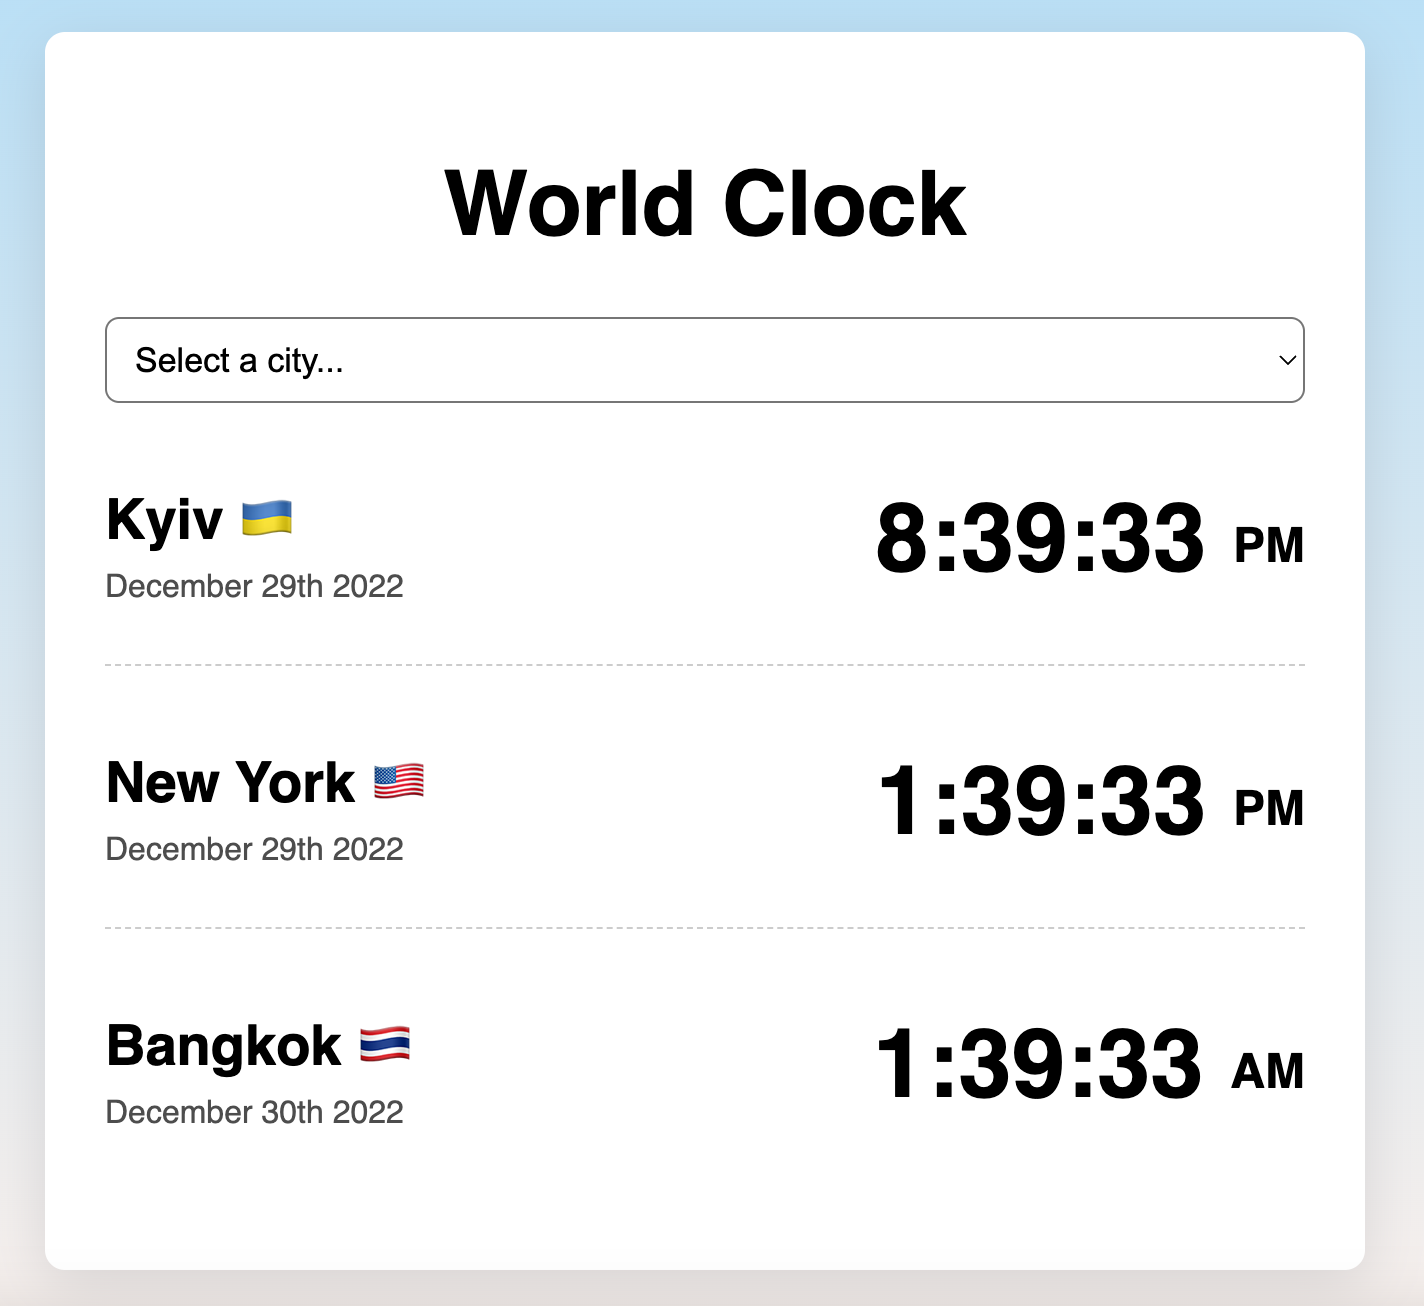
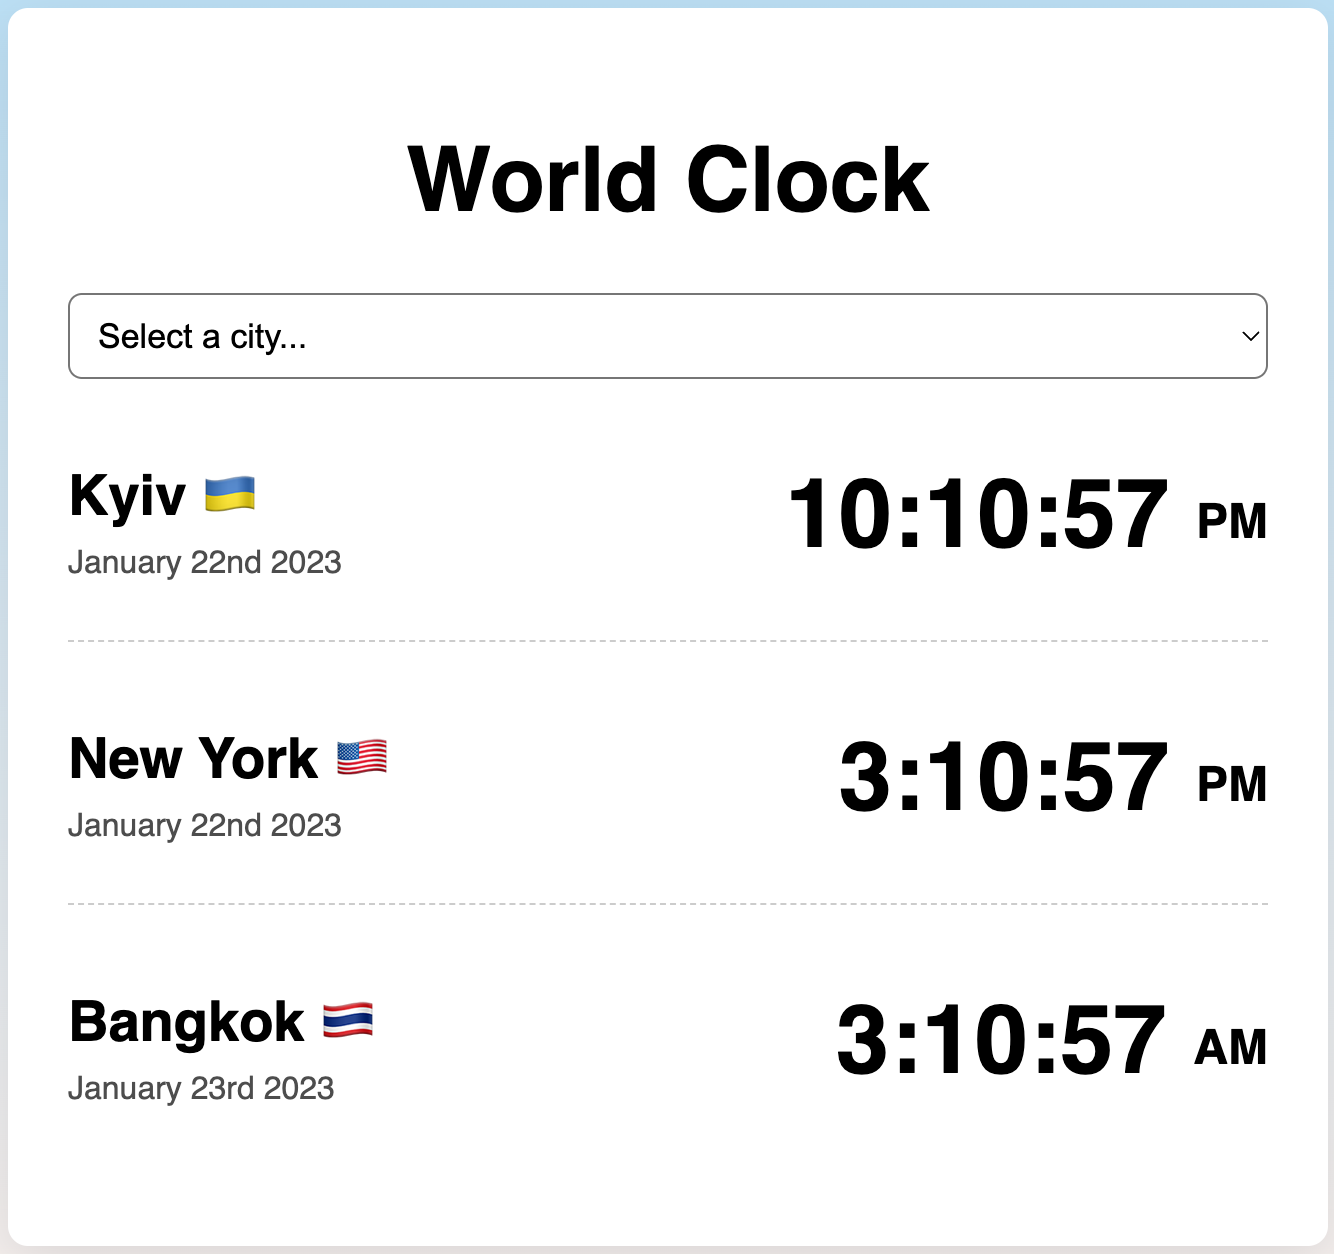
CSS updated

Changed region(s): [[0.0, 0.0, 1.0, 0.9952], [0.0615, 0.2177, 0.922, 0.311], [0.3073, 0.0933, 0.7069, 0.1866]]

diff --git a/src/style.css b/src/style.css
@@ -1,7 +1,7 @@
 :root {
-  --primary-color: #b2dff5;
-  --secondary-color: #ede7e5;
-  --box-shadow: 0 5px 10px rgba(0, 0, 0, 0.3);
+  --primary-color: #000000;
+  --secondary-color: #ffffff;
+  --box-shadow: 0 5px 10px rgba(0, 0, 0, 0.2);
 }
 .container {
   text-align: start;
@@ -11,7 +11,7 @@
 h1,
 h2,
 h3 {
-  text-align: start;
+  text-align: center;
   margin-top: 30px;
 }
 h1 {
@@ -41,22 +41,32 @@ h3 {
 .primary-link {
   border: 1px solid var(--primary-color);
   background-color: var(--primary-color);
-  border-radius: 4px;
+  border-radius: 7px;
   box-shadow: var(--box-shadow);
-  padding: 20px 15px;
+  padding: 20px 21px;
   margin-right: 20px;
   text-decoration: none;
   color: white;
+}
+.primary-link:hover {
+  background-color: var(--secondary-color);
+  color: var(--primary-color);
+  transition: ease-in-out 0.2s;
 }
 .secondary-link {
   border: 1px solid var(--primary-color);
   background-color: white;
   color: var(--primary-color);
   text-decoration: none;
-  border-radius: 4px;
+  border-radius: 7px;
   box-shadow: var(--box-shadow);
   padding: 20px 15px;
   margin-left: 20px;
+}
+.secondary-link:hover {
+  background-color: var(--primary-color);
+  color: var(--secondary-color);
+  transition: ease-in-out 0.2s;
 }
 .homepage-link {
   color: var(--primary-color);
@@ -86,9 +96,9 @@ h3 {
 }
 .main-link {
   text-decoration: none;
-  color: white;
-  background: var(--primary-color);
-  border-radius: 4px;
+  color: black;
+  background: var(--secondary-color);
+  border-radius: 7px;
   box-shadow: var(--box-shadow);
   padding: 20px 15px;
   margin-right: 20px;
@@ -119,9 +129,4 @@ h3 {
     text-align: center;
     margin: 0 20px;
   }
-}
-.img-style {
-  border-style: solid;
-  border-width: 12px;
-  border-image: linear-gradient(to top, #fff1eb 0%, #ace0f9 100%) 1;
 }

diff --git a/index.html b/index.html
@@ -73,7 +73,8 @@
           target="_blank"
           class="primary-link"
           title="Info and contact page"
-          >About me
+        >
+          About me
         </a>
         <a
           href="/about.html#contact"
@@ -91,7 +92,7 @@
             src="/images/world_clock.png"
             alt=""
             width="450"
-            class="img-fluid rounded project-img"
+            class="img-fluid shadow p-3 mb-5 bg-body rounded project-img"
           />
         </div>
         <div class="col-md-6 p-3 project-info">
@@ -141,7 +142,7 @@
             src="/images/weather_app.png"
             alt="Picture of the Weather App"
             width="450"
-            class="img-fluid project-img img-style bg-body rounded"
+            class="img-fluid shadow p-3 mb-5 bg-body rounded project-img"
           />
         </div>
       </div>
@@ -151,7 +152,7 @@
             src="/images/streching.png"
             alt="Picture of the Stretching Page"
             width="450"
-            class="img-fluid project-img img-style bg-body rounded"
+            class="img-fluid shadow p-3 mb-5 bg-body rounded project-img"
           />
         </div>
         <div class="col-md-6 p-3 project-info">
